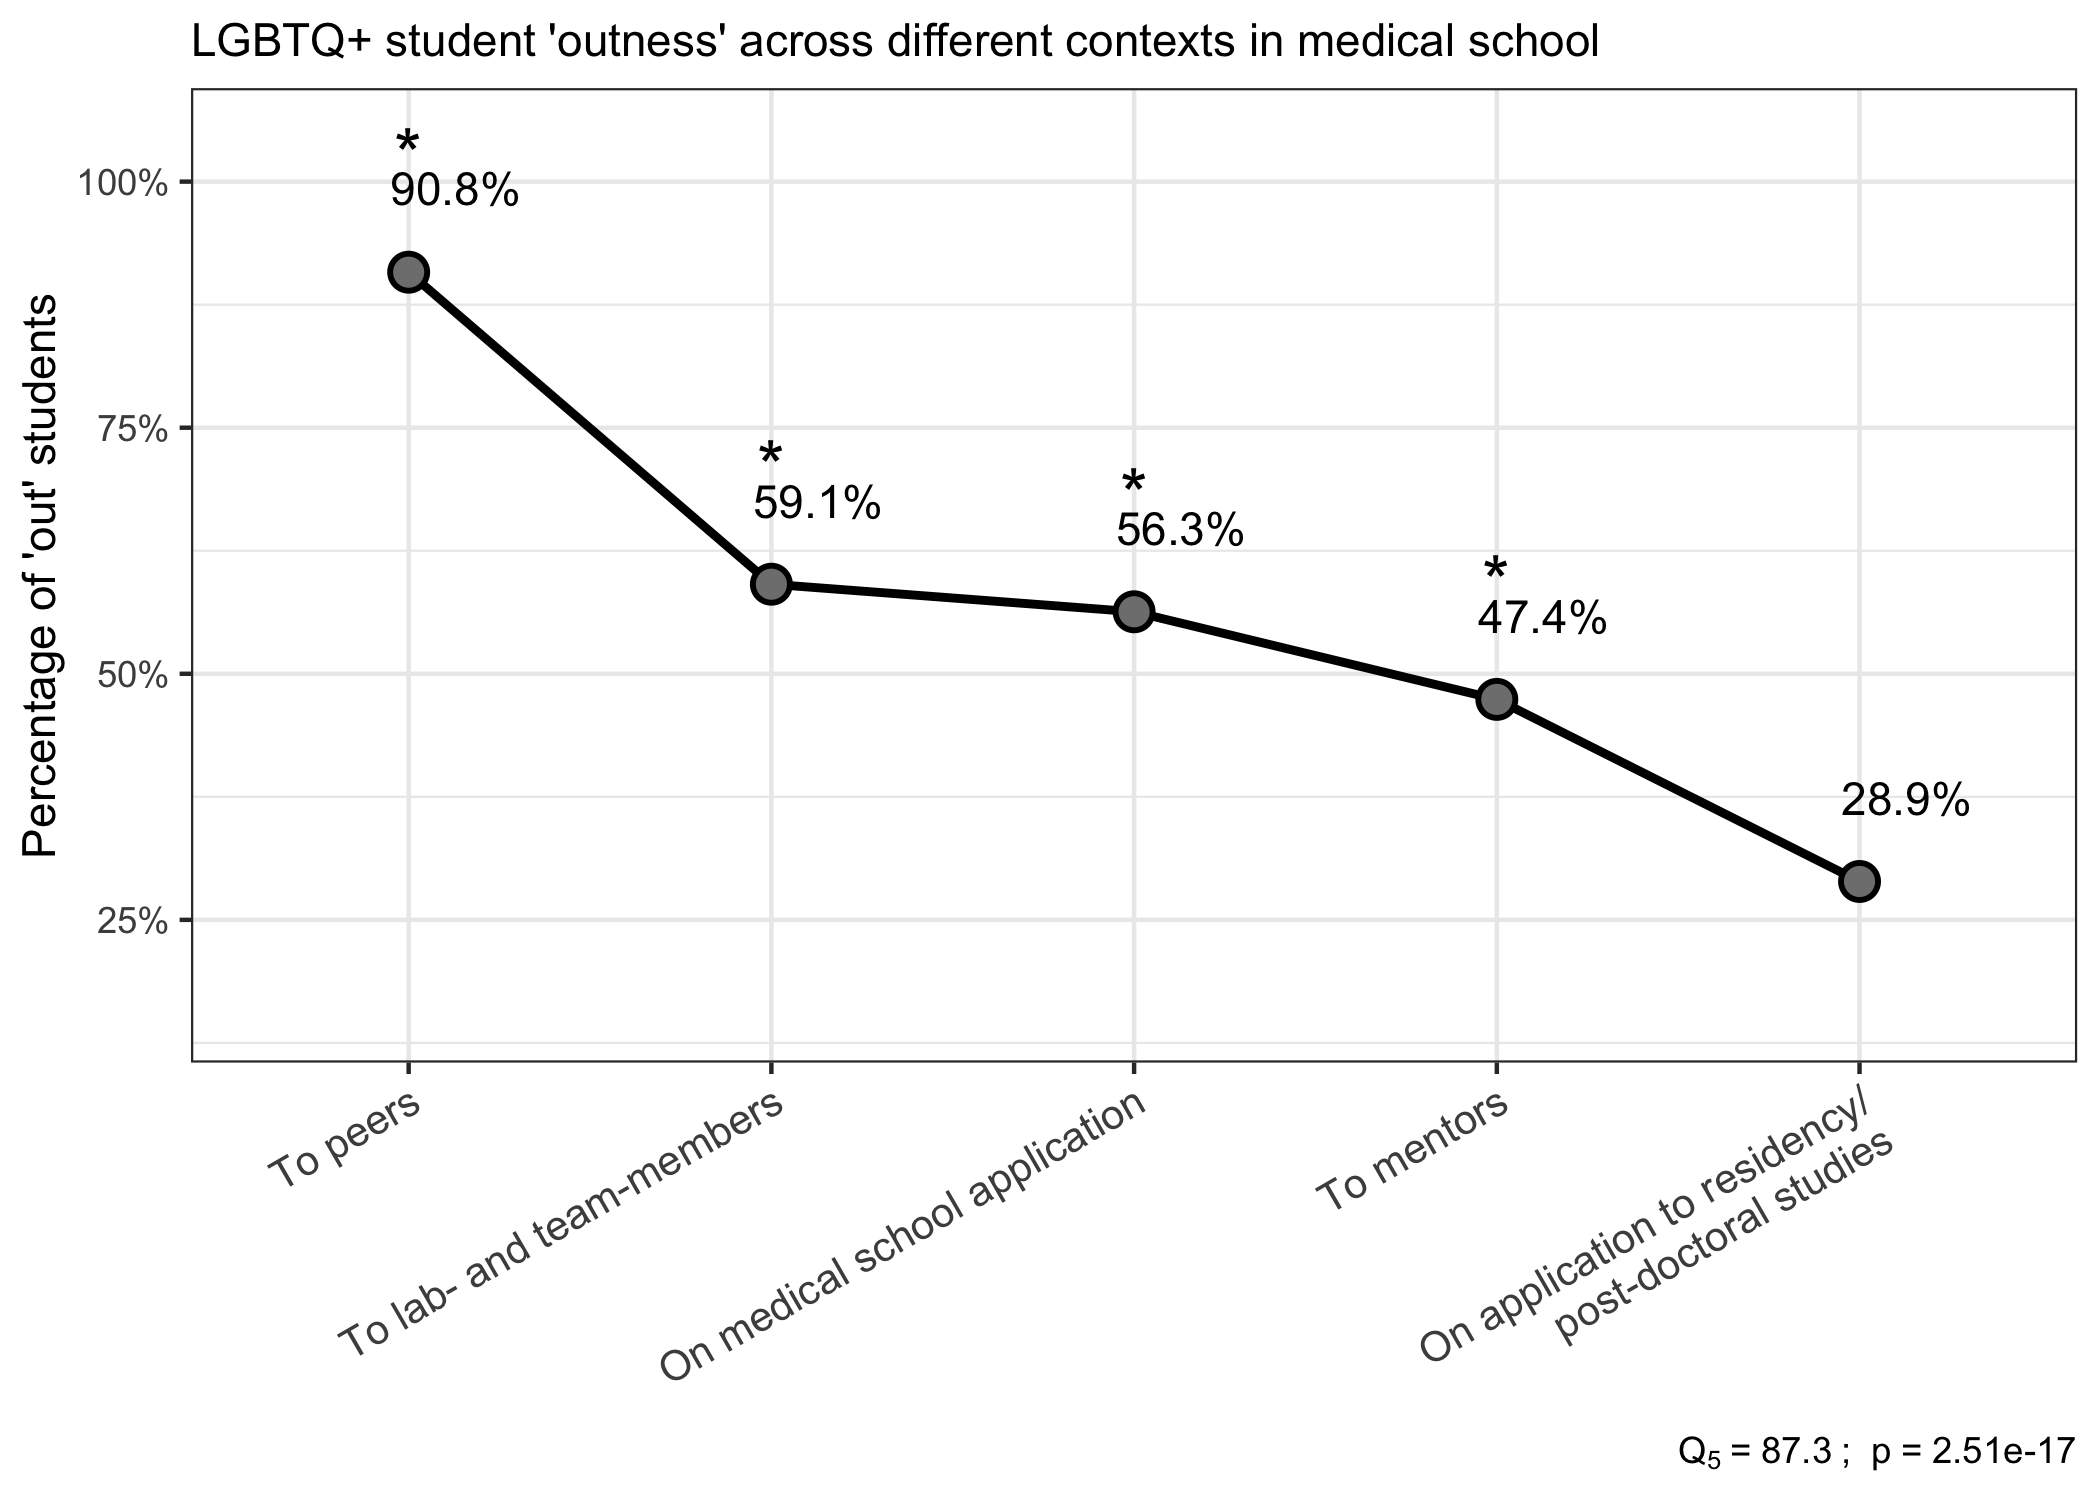
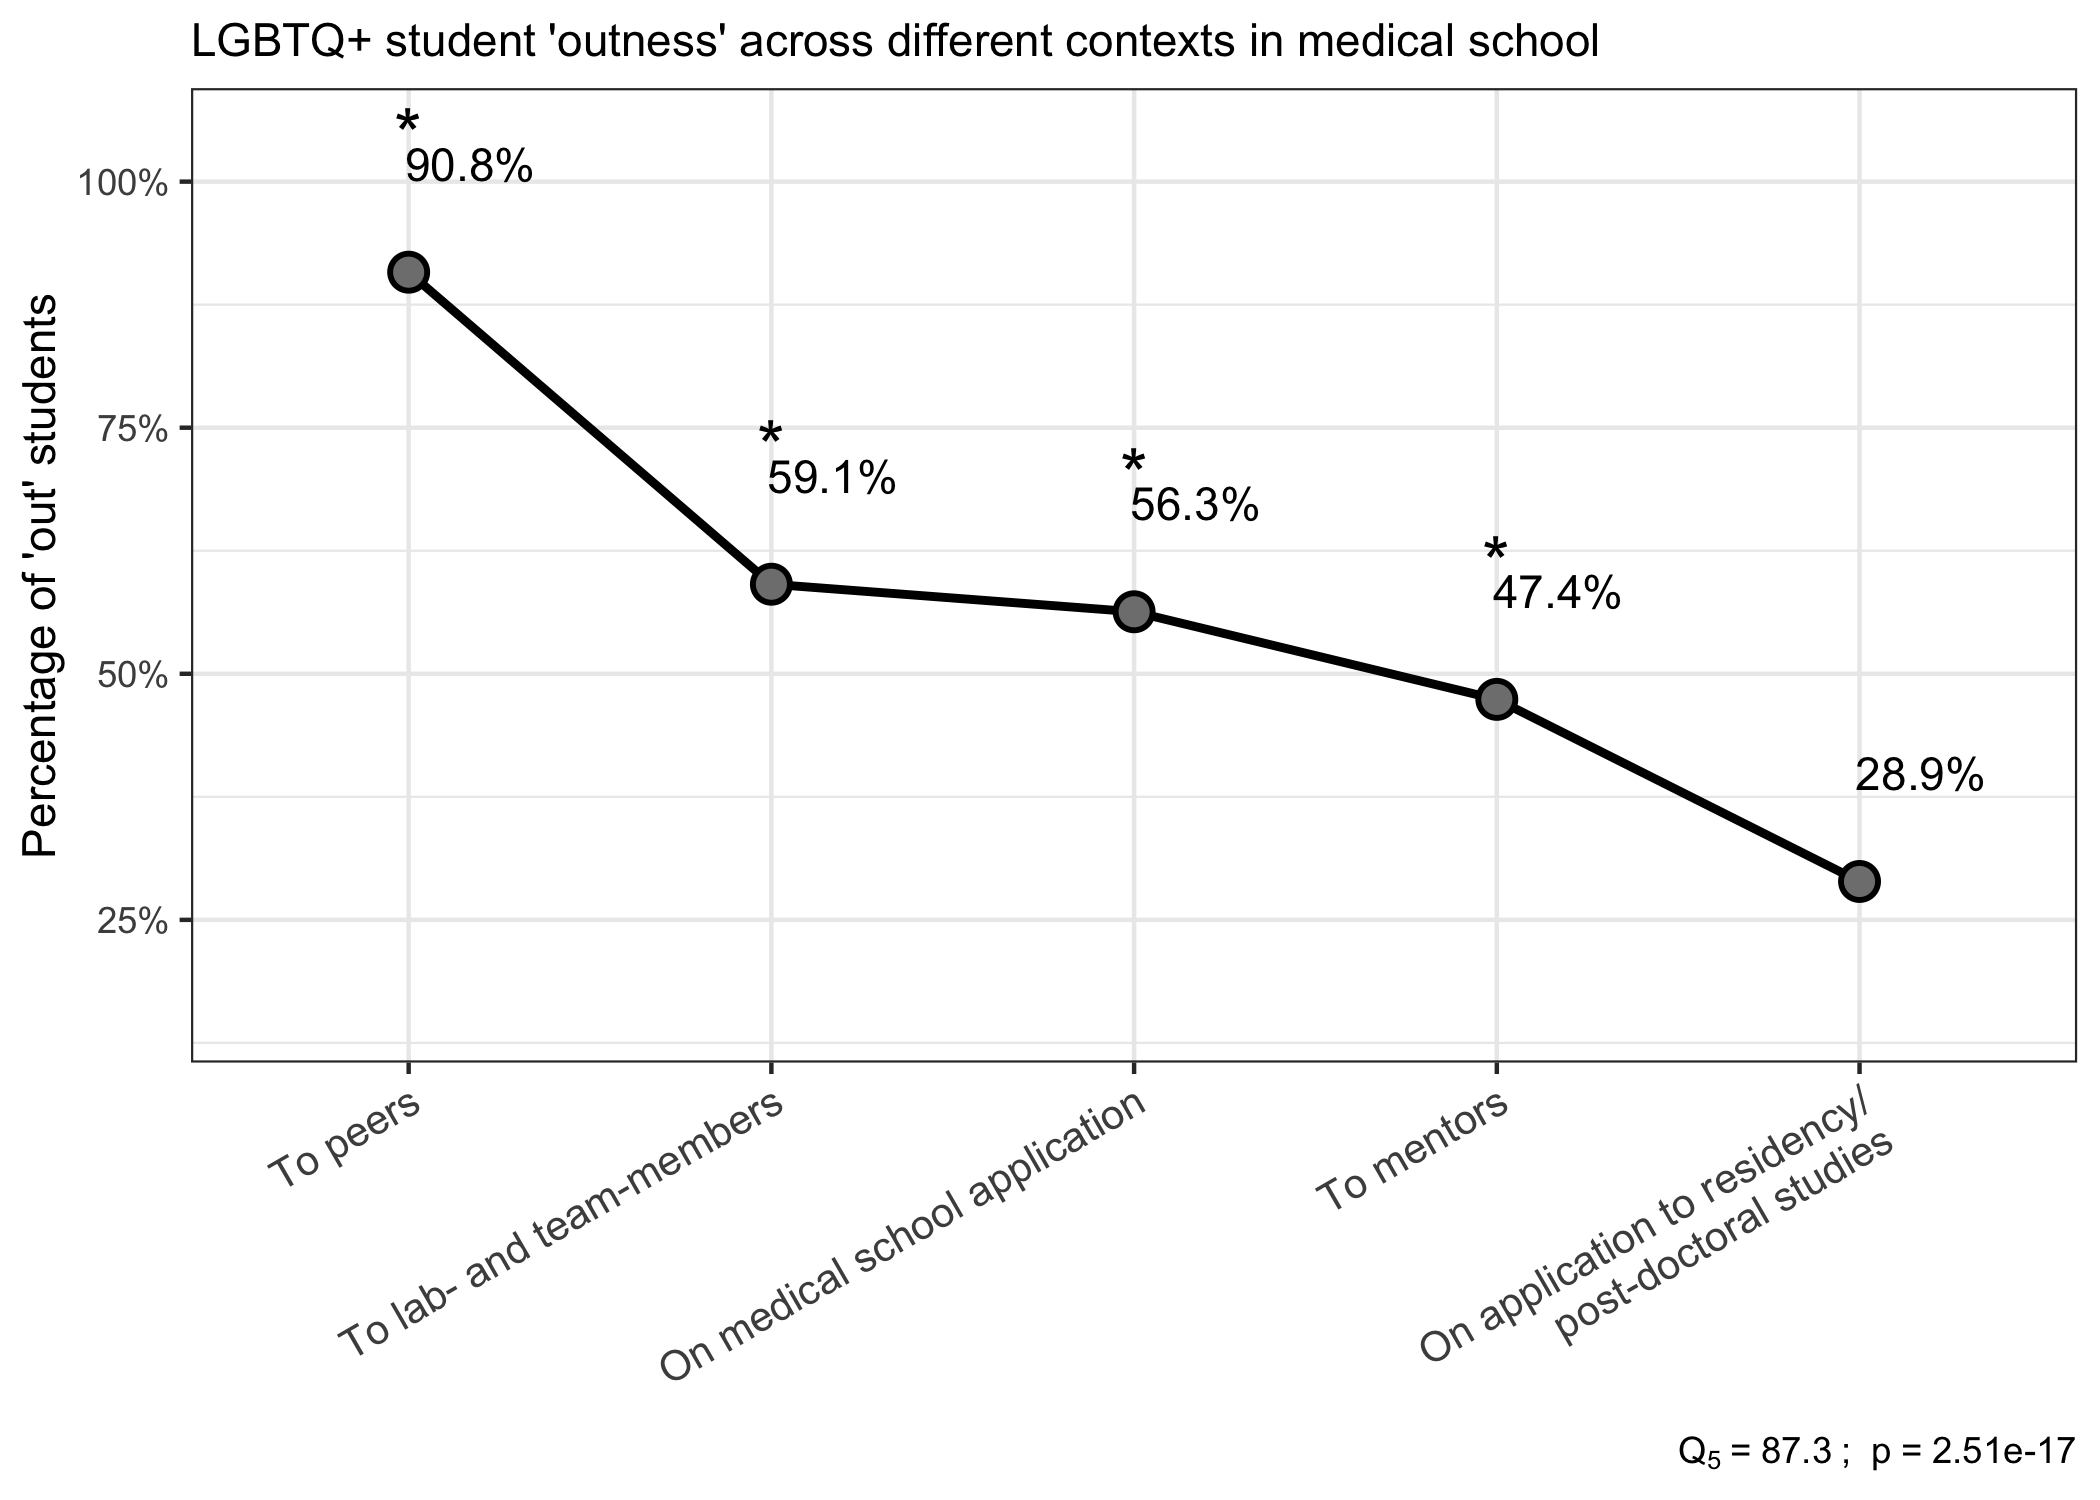
add reports

diff --git a/reports/outness_paper/outness_report.md b/reports/outness_paper/outness_report.md
@@ -1,7 +1,7 @@
 Outness report
 ================
 Timothy Keyes
-2020-12-04
+2020-12-05
 
   - [Data quality and cleaning](#data-quality-and-cleaning)
   - [Univariate Demographics report](#univariate-demographics-report)
@@ -33,6 +33,7 @@ Timothy Keyes
       - [Table 1](#table-1)
   - [Some qualitative thoughts on
     “outness”](#some-qualitative-thoughts-on-outness)
+  - [Number of words in manuscript](#number-of-words-in-manuscript)
 
 First, I’ll load the libraries I want and set up a few parameters that
 will make data cleaning easier in later steps.
@@ -55,7 +56,7 @@ figure_out_path <- file.path("~", "Desktop", "jgme_final", "Figures")
 
 likert_colors <- c("darkgreen","green","orange","red","darkred")
 
-likert_labels <- 
+likert_labels <-
   c(
     "Strongly disagree",
     "Somewhat disagree", 
@@ -4579,12 +4580,13 @@ overall_outness_plot <-
   ) + 
   geom_text(
     aes(label = str_c(percent_out, "%")), 
-    nudge_y = 8.5, 
-    nudge_x = 0.13
+    nudge_y = 11, 
+    nudge_x = 0.17
   ) + 
   geom_text(
     aes(label = significant), 
-    nudge_y = 12, 
+    nudge_y = 14,
+    nudge_x = 0,
     size = 6
   ) + 
   scale_x_discrete(labels = function(x) str_wrap(x, width = 30)) + 
@@ -5476,6 +5478,19 @@ compared to how many LGBTQ+ students were actually out by using a simple
 bar plot.
 
 ``` r
+outness_data %>% 
+  filter(variable != "Out (or plan to be out)") %>% 
+  group_by(variable) %>% 
+  summarize(prop = sum(is_out == "yes") / n())
+```
+
+    ## # A tibble: 2 x 2
+    ##   variable                         prop
+    ##   <chr>                           <dbl>
+    ## 1 Support ability to be out       0.904
+    ## 2 Support protections for outness 0.926
+
+``` r
 context_order <- 
   outness_data %>% 
   filter(variable == "Out (or plan to be out)") %>% 
@@ -5492,7 +5507,8 @@ support_plot <-
   mutate(
     environment = factor(context, levels = context_order), 
     percent_out = (prop * 100) %>% round(1), 
-    identity = "overall"
+    identity = "overall", 
+    significance = if_else(str_detect(variable, "or plan to be out"), "*", "")
   ) %>% 
   ggplot(aes(x = environment, y = percent_out)) + 
   geom_col(
@@ -5510,6 +5526,11 @@ support_plot <-
     position = position_dodge(width = 0.91), 
     fontface = "bold", 
     vjust = -0.3
+  ) + 
+  geom_text(
+    aes(y = percent_out + 8, group = variable, label = significance),
+    size = 6, 
+    position = position_dodge(width = 0.91)
   ) + 
   scale_x_discrete(labels = function(x) str_wrap(x, width = 30)) + 
   scale_y_continuous(
@@ -5532,7 +5553,7 @@ support_plot <-
 support_plot
 ```
 
-![](outness_report_files/figure-gfm/unnamed-chunk-30-1.png)<!-- -->
+![](outness_report_files/figure-gfm/unnamed-chunk-31-1.png)<!-- -->
 
 ``` r
 support_plot %>% 
@@ -5634,7 +5655,7 @@ gap_plot <-
 gap_plot 
 ```
 
-![](outness_report_files/figure-gfm/unnamed-chunk-31-1.png)<!-- -->
+![](outness_report_files/figure-gfm/unnamed-chunk-32-1.png)<!-- -->
 
 This plot makes it really easy to see that, as we move from the right
 side (the “less professional” side of the plot) to the right side of the
@@ -5762,7 +5783,7 @@ alluvium_plot <-
 alluvium_plot
 ```
 
-![](outness_report_files/figure-gfm/unnamed-chunk-34-1.png)<!-- -->
+![](outness_report_files/figure-gfm/unnamed-chunk-35-1.png)<!-- -->
 
 ``` r
 alluvium_plot %>% 
@@ -5796,6 +5817,29 @@ a smaller “chunk” of blue students cross over in the other direction.
 This illustrates that, for some reason, there’s a net movement of
 students towards being less comfortable being “out” from the beginning
 of medical school to the end of medical school.
+
+``` r
+alluvium_counting <- 
+ na_data %>% 
+  filter(is_lgbtq == "LGBTQ+") %>% 
+  count(out_medical_school_app, out_residency_app) %>% 
+  arrange(desc(out_medical_school_app, desc(out_residency_app))) %>% 
+  group_by(
+    out_medical_school_app
+  ) %>% 
+  mutate(percent = n / sum(n) * 100)
+
+alluvium_counting
+```
+
+    ## # A tibble: 4 x 4
+    ## # Groups:   out_medical_school_app [2]
+    ##   out_medical_school_app out_residency_app     n percent
+    ##   <chr>                  <chr>             <int>   <dbl>
+    ## 1 yes                    no                  216    61.0
+    ## 2 yes                    yes                 138    39.0
+    ## 3 no                     no                  231    84  
+    ## 4 no                     yes                  44    16
 
 ## Putting our plots together using {patchwork}
 
@@ -5944,6 +5988,19 @@ alternate_figure_1 <-
     legend.title = element_text(size = 12, face = "bold"), 
     plot.tag = element_text(size = 20)
   )
+
+alternate_figure_1 <- 
+  wrap_plots(figure_1a, figure_1b, figure_s1a, figure_s1c, figure_1c, figure_s1b) + 
+  plot_layout(ncol = 2) + 
+  plot_annotation(tag_levels = 'A', tag_suffix = "", tag_prefix = "  ") &
+  theme(
+    axis.text = element_text(size = 11),
+    axis.title = element_text(size = 12), 
+    legend.text = element_text(size = 11),
+    legend.title = element_text(size = 12, face = "bold"), 
+    plot.tag = element_text(size = 20)
+  )
+
   
 alternate_figure_1 %>% 
     ggsave(
@@ -9634,3 +9691,11 @@ Friends
 </tbody>
 
 </table>
+
+## Number of words in manuscript
+
+``` r
+274 + 331 + 364 + 194
+```
+
+    ## [1] 1163
